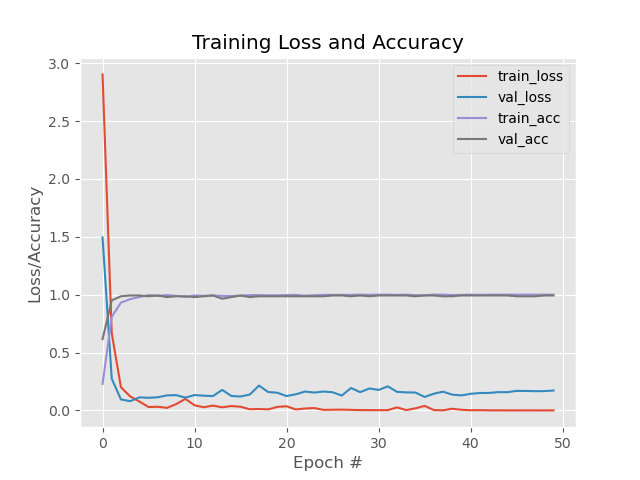
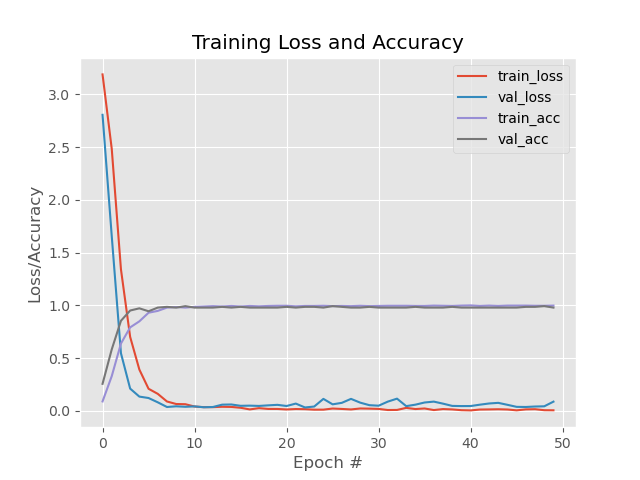
Update

diff --git a/keras_ocr_api.py b/keras_ocr_api.py
@@ -1,30 +1,32 @@
 '''
 Author: BNDou
 Date: 2024-04-25 01:54:43
-LastEditTime: 2024-04-26 06:25:15
+LastEditTime: 2024-04-26 15:46:30
 FilePath: \Captchas_BOC\keras_ocr_api.py
 Description: 
     使用Keras OCR API识别验证码
 '''
 
 import pickle
-import time
 import cv2
 from keras.models import load_model
 import numpy as np
 from selenium import webdriver
 from selenium.webdriver.edge.service import Service
 from selenium.webdriver.edge.options import Options
+from selenium.webdriver.support.wait import WebDriverWait
+from selenium.webdriver.support import expected_conditions as EC
 from selenium.webdriver.common.by import By
 
 options = Options()
 # 设置 Edge 以无窗口模式运行
-# options.add_argument("--headless")
-# options.add_argument("--disable-gpu")
+options.add_argument("--headless")
+options.add_argument("--disable-gpu")
 # 设置页面加载策略
 options.page_load_strategy = 'eager'
 # 初始化 WebDriver
 driver = webdriver.Edge(service=Service(r'msedgedriver.exe'), options=options)
+# 设置隐式等待时间
 driver.implicitly_wait(10)
 
 # 模型和标签的访问路径
@@ -58,7 +60,7 @@ def get_cutted_patches(capchar):
     img = cv2.imread(capchar)
     if img is None:
         img = get_gif_first_frame(capchar)
-    # img = img[1:-1, 1:-1]
+    copy_img = np.copy(img)
 
     # 将图像二值化
     # 127和128的像素是干扰，都变为255 即白色，其余非白色变黑 即字符
@@ -83,16 +85,20 @@ def get_cutted_patches(capchar):
 
     # 获取轮廓
     dilation = cv2.cvtColor(dilation, cv2.COLOR_BGR2GRAY)
-    contours, _ = cv2.findContours(dilation, cv2.RETR_TREE,
+    contours, _ = cv2.findContours(dilation, cv2.RETR_EXTERNAL,
                                    cv2.CHAIN_APPROX_SIMPLE)
-    # # 显示轮廓
-    # drawContours = cv2.drawContours(cv2.imread(capchar), contours, -1,
-    #                                 (0, 0, 255), 2)
+    # 显示轮廓
+    drawContours = cv2.drawContours(copy_img, contours, -1, (0, 0, 255), 2)
     # cv2.imshow('drawContours', drawContours)
     # cv2.waitKey(0)
 
     # 只保留面积最大的6个轮廓
     contours = sorted(contours, key=cv2.contourArea, reverse=True)[:6]
+    # 只保留周长最大的6个轮廓
+    # contours = sorted(contours,
+    #                   key=lambda length:
+    #                   [cv2.arcLength(contour, True) for contour in contours],
+    #                   reverse=True)[:6]
 
     # 获取所有外接矩形
     boundingBoxes = [cv2.boundingRect(c) for c in contours]
@@ -105,7 +111,7 @@ def get_cutted_patches(capchar):
     cut_chars = []
     for box in boundingBoxes:
         x, y, w, h = box
-        char = dilation[y:y + h, x:x + w]
+        char = dilation[y - 1:y + h + 1, x - 1:x + w + 1]
         cut_chars.append(char)
         # cv2.imshow('char', char)
         # cv2.waitKey(0)
@@ -139,37 +145,39 @@ def recognize_capchar(capchar, model, lb):
 
 
 if __name__ == '__main__':
-    # url = 'https://cdn1.cmcoins.boc.cn/ocas-web/ImageValidation/validation1704292251688.gif'
-    url = 'https://gces.bankofchina.com/'
+    url = 'https://cdn1.cmcoins.boc.cn/ocas-web/ImageValidation/validation1704292251688.gif'
+    # url = 'https://gces.bankofchina.com/'
     driver.get(url)
     # 先找到验证码对应的网页元素
-    # ele_piccaptcha = driver.find_element(By.XPATH, '/html/body/img')
-    ele_piccaptcha = driver.find_element(
-        By.XPATH,
-        '//*[@id="wrapper"]/div[1]/div/div[2]/div[1]/div/div[2]/div/div/div/div[2]/div/div/div[4]/div[3]/em/img'
-    )
+    WebDriverWait(driver, 10, 0.5, ignored_exceptions='未找到验证码').until(
+        EC.presence_of_element_located((By.XPATH, '/html/body/img')))
+    ele_piccaptcha = driver.find_element(By.XPATH, '/html/body/img')
+    # WebDriverWait(driver, 10, 0.5, ignored_exceptions='未找到验证码').until(
+    #     EC.presence_of_element_located((
+    #         By.XPATH,
+    #         '//*[@id="wrapper"]/div[1]/div/div[2]/div[1]/div/div[2]/div/div/div/div[2]/div/div/div[4]/div[3]/em/img'
+    #     )))
+    # ele_piccaptcha = driver.find_element(
+    #     By.XPATH,
+    #     '//*[@id="wrapper"]/div[1]/div/div[2]/div[1]/div/div[2]/div/div/div/div[2]/div/div/div[4]/div[3]/em/img'
+    # )
     # 然后直接调用这个元素的screenshot方法，参数是保存的路径即可实现截图
     ele_piccaptcha.screenshot('./temp/temp_capchar.jpg')
     # 然后调用识别函数
     chars_key = recognize_capchar('./temp/temp_capchar.jpg', MODEL, LB)
     print(f'识别结果为：{chars_key}')
-    # 将识别结果输入到对应的框中
-    ele_capchar = driver.find_element(
-        By.XPATH,
-        '//*[@id="wrapper"]/div[1]/div/div[2]/div[1]/div/div[2]/div/div/div/div[2]/div/div/div[2]/div/input'
-    )
-    ele_capchar.send_keys('username')
-    ele_capchar = driver.find_element(By.XPATH, '//*[@id="password1"]')
-    ele_capchar.send_keys('password123')
-    ele_capchar = driver.find_element(
-        By.XPATH,
-        '//*[@id="wrapper"]/div[1]/div/div[2]/div[1]/div/div[2]/div/div/div/div[2]/div/div/div[4]/div[3]/div/input'
-    )
-    ele_capchar.send_keys(chars_key)
-    button = driver.find_element(
-        By.XPATH,
-        '//*[@id="wrapper"]/div[1]/div/div[2]/div[1]/div/div[2]/div/div/div/div[2]/div/div/div[6]/button'
-    )
-    button.click()
+    # # 将识别结果输入到对应的框中
+    # ele_capchar = driver.find_element(
+    #     By.XPATH,
+    #     '//*[@id="wrapper"]/div[1]/div/div[2]/div[1]/div/div[2]/div/div/div/div[2]/div/div/div[2]/div/input'
+    # )
+    # ele_capchar.send_keys('username')
+    # ele_capchar = driver.find_element(By.XPATH, '//*[@id="password1"]')
+    # ele_capchar.send_keys('password123')
+    # ele_capchar = driver.find_element(
+    #     By.XPATH,
+    #     '//*[@id="wrapper"]/div[1]/div/div[2]/div[1]/div/div[2]/div/div/div/div[2]/div/div/div[4]/div[3]/div/input'
+    # )
+    # ele_capchar.send_keys(chars_key)
 
     input("按任意键退出...")

diff --git a/2_char_generator.py b/2_char_generator.py
@@ -1,7 +1,7 @@
 '''
 Author: BNDou
 Date: 2024-04-21 18:02:48
-LastEditTime: 2024-04-26 05:11:34
+LastEditTime: 2024-04-26 14:24:43
 FilePath: \Captchas_BOC\2_char_generator.py
 Description: 
     保存字符标签图像
@@ -9,12 +9,12 @@ Description:
 
 import os
 import cv2
-
+import numpy as np
 
 # 验证码文件夹路径
-IMAGE_PATH = '.\demo\captcha_images'
+IMAGE_PATH = '.\captchars'
 # 保存字符标签文件夹路径
-CHARS_PATH = '.\demo\chars'
+CHARS_PATH = '.\chars_dict'
 # 定义一个字符串列表，包含26个英文字母和数字
 class_names = [
     'A', 'B', 'C', 'D', 'E', 'F', 'G', 'H', 'I', 'J', 'K', 'L', 'M', 'N', 'O',
@@ -75,6 +75,7 @@ def get_cutted_patches(capchar):
     img = cv2.imread(capchar)
     if img is None:
         img = get_gif_first_frame(capchar)
+    copy_img = np.copy(img)
 
     # 将图像二值化
     # 127和128的像素是干扰，都变为255 即白色，其余非白色变黑 即字符
@@ -99,16 +100,20 @@ def get_cutted_patches(capchar):
 
     # 获取轮廓
     dilation = cv2.cvtColor(dilation, cv2.COLOR_BGR2GRAY)
-    contours, _ = cv2.findContours(dilation, cv2.RETR_TREE,
+    contours, _ = cv2.findContours(dilation, cv2.RETR_EXTERNAL,
                                    cv2.CHAIN_APPROX_SIMPLE)
-    # # 显示轮廓
-    # drawContours = cv2.drawContours(cv2.imread(capchar), contours, -1,
-    #                                 (0, 0, 255), 2)
+    # 显示轮廓
+    drawContours = cv2.drawContours(copy_img, contours, -1, (0, 0, 255), 2)
     # cv2.imshow('drawContours', drawContours)
     # cv2.waitKey(0)
 
     # 只保留面积最大的6个轮廓
     contours = sorted(contours, key=cv2.contourArea, reverse=True)[:6]
+    # 只保留周长最大的6个轮廓
+    # contours = sorted(contours,
+    #                   key=lambda length:
+    #                   [cv2.arcLength(contour, True) for contour in contours],
+    #                   reverse=True)[:6]
 
     # 获取所有外接矩形
     boundingBoxes = [cv2.boundingRect(c) for c in contours]
@@ -121,56 +126,13 @@ def get_cutted_patches(capchar):
     cut_chars = []
     for box in boundingBoxes:
         x, y, w, h = box
-        char = dilation[y:y + h, x:x + w]
+        char = dilation[y - 1:y + h + 1, x - 1:x + w + 1]
         cut_chars.append(char)
         # cv2.imshow('char', char)
         # cv2.waitKey(0)
-
-    # 遍历字符列表
-    for i in range(len(cut_chars)):
-        # 创建一个垂直列表
-        vertical = []
-        # 遍历字符图像的每一行，并将每一行的元素求和，添加到垂直列表中
-        vertical = [
-            sum(cut_chars[i][index, :]) for index in range(cut_chars[i].shape[0])
-        ]
-
-        # 获取垂直列表中元素为0的索引
-        item_cnt = len(vertical)
-        zero_vertical_index = [
-            index for index, value in enumerate(vertical) if value == 0
-        ]
-        # 如果垂直列表中没有0，那么第一个索引为0，最后一个索引为字符图像的行数
-        if len(zero_vertical_index) != 0:
-            if 0 not in zero_vertical_index:
-                first_index = 0
-                last_index = zero_vertical_index[0] + 1
-            # 如果垂直列表中最后一个元素为0，那么第一个索引为字符图像的行数减1，最后一个索引为字符图像的行数减1
-            elif item_cnt - 1 not in zero_vertical_index:
-                first_index = item_cnt - 1
-                last_index = 0
-            # 如果垂直列表中既有0，又不是所有元素都为0，那么第一个索引为最后一个元素为0的索引加1，最后一个索引为第一个元素为0的索引减1
-            else:
-                target = [
-                    index
-                    for index, value in enumerate(zero_vertical_index[:-1])
-                    if zero_vertical_index[index + 1] -
-                    zero_vertical_index[index] != 1
-                ]
-                first_index = zero_vertical_index[target[0]] - 1
-                last_index = zero_vertical_index[target[-1] + 1] + 1
-        else:
-            first_index = 0
-            last_index = item_cnt
-
-        # 获取第一个索引和最后一个索引
-        (v_f, v_l) = first_index, last_index
-        # 获取目标字符图像
-        target_char = cut_chars[i][v_f:v_l]
-
         # 保存字符图像
-        if target_char.shape[0] > 0:
-            save_char(target_char)
+        if char.shape[0] > 0 and char.shape[1] > 0:
+            save_char(char)
 
 
 def list_images_in_folder(folder_path):

diff --git a/4_keras_recognition.py b/4_keras_recognition.py
@@ -1,13 +1,12 @@
 '''
 Author: BNDou
 Date: 2024-04-23 01:00:34
-LastEditTime: 2024-04-25 00:35:30
+LastEditTime: 2024-04-26 15:23:07
 FilePath: \Captchas_BOC\4_keras_recognition.py
 Description: 
     使用Keras模型进行验证码识别
 '''
 import os
-import random
 import cv2
 import numpy as np
 import pickle
@@ -18,7 +17,7 @@ from keras.models import load_model
 MODEL_PATH = '.\model\keras_model.h5'
 LABEL_PATH = '.\model\keras_lb.pickle'
 # 测试图片的访问路径
-IMAGE_PATH = '.\demo\chars'
+IMAGE_PATH = '.\chars_dict'
 
 
 if __name__ == '__main__':
@@ -45,7 +44,6 @@ if __name__ == '__main__':
         label = imagePath.split(os.path.sep)[-2]
         # 读取图片
         image = cv2.imread(imagePath, 0)
-        output = image.copy()
         image = cv2.resize(image, (16, 16))
         # scale图像数据
         image = image.astype("float") / 255.0

diff --git a/3_keras_cnn_train.py b/3_keras_cnn_train.py
@@ -1,7 +1,7 @@
 '''
 Author: BNDou
 Date: 2024-04-22 23:24:04
-LastEditTime: 2024-04-25 20:10:17
+LastEditTime: 2024-04-26 15:55:35
 FilePath: \Captchas_BOC\3_keras_cnn_train.py
 Description: 
     使用keras框架训练一个卷积神经网络，用于识别验证码。
@@ -129,7 +129,7 @@ if __name__ == '__main__':
                   trainY,
                   validation_data=(testX, testY),
                   epochs=50,
-                  batch_size=16)
+                  batch_size=128)
     
     # 保存模型
     print("------保存模型------")
